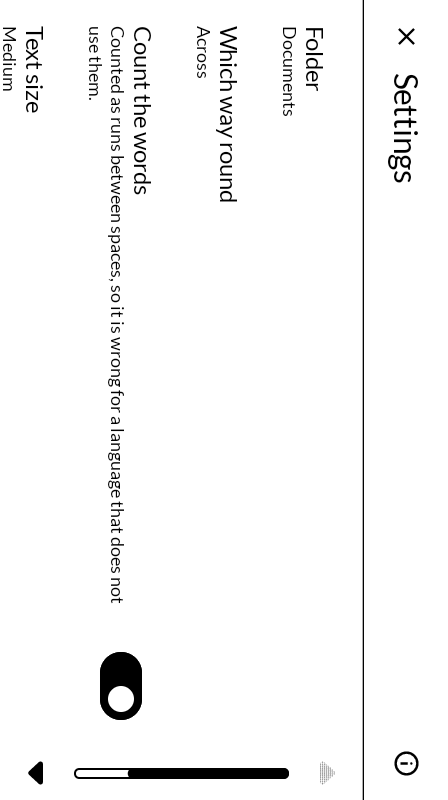
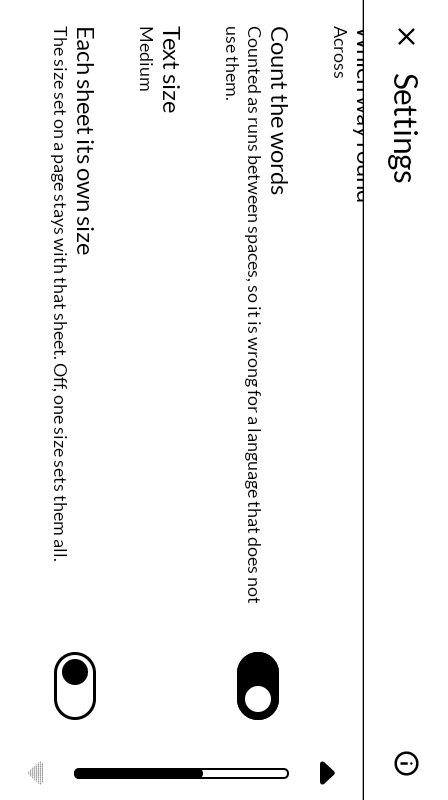
Screenshots from 0.1.3, and a README that matches the app
The page carries the size in its foot now and settings has a row it did not
have, so three of the four pictures were of the version before this one. Taken
from the published 0.1.3 APK on kompakt31, same sheet and same hundred and nine
words as the last set.

The settings picture is the list a step down rather than at the top: five rows
do not fit the panel held across, and the two that answer the same question are
worth showing together.

Two things the README said that stopped being true. It said the app does not
rename a sheet -- it has since 0.1.0, from the name in the foot of the page --
and it called the icon a placeholder, which it stopped being when the drawing
was traced. The version line was still 0.1.0 as well.

diff --git a/README.md b/README.md
@@ -59,6 +59,11 @@ line needed to be attached to.
 - **Counts the words**, a moment behind the typing rather than on every keystroke, because
   repainting the foot of an E Ink panel on every character is a flicker you would watch all
   afternoon.
+- **Three text sizes**, set from the foot of the page as well as from Settings, because the
+  size of a page is a question you can only answer while looking at the page. One size sets
+  every sheet unless you ask for the other thing, and then a sheet keeps the size you set on
+  it. A size follows a sheet that is renamed here; a sheet renamed by another app comes back
+  at the setting.
 
 ## What it does not do
 
@@ -70,13 +75,12 @@ is a lock rather than a key. PRIVACY.md says so at length.) No network — the o
 the app is handed to a browser.
 No formatting, no preview, no spellcheck, no themes. It does not sync, and does not want to:
 it writes files into a folder, and whatever already syncs that folder does the rest. It does
-not merge two versions of a sheet either — it keeps both and says so. And it does not rename:
-a new sheet is named for the date and time it was started, and any file manager will rename
-it.
+not merge two versions of a sheet either — it keeps both and says so.
 
 ## Where this is up to
 
-Version 0.1.0. The word count and the change-detection rules are unit tested, every screen
+Version 0.1.3. The word count, the change-detection rules and the size a page opens at are
+unit tested, every screen
 has been driven on a device, and the save path has been checked against the things that
 actually lose writing — shortening a sheet leaves no tail of the old one behind it, and a
 sheet that changed underneath the app is copied rather than overwritten.
@@ -94,8 +98,6 @@ Ctrl-S wrote the sheet before the pause could have, Ctrl-N started one, and Esca
 the page. That took some getting at: the emulator's keyboard uses a layout with no Ctrl key
 defined in it at all, so every combination arrived as a bare letter until the layout was
 replaced.
-
-The icon is a placeholder.
 
 ## Building
 
